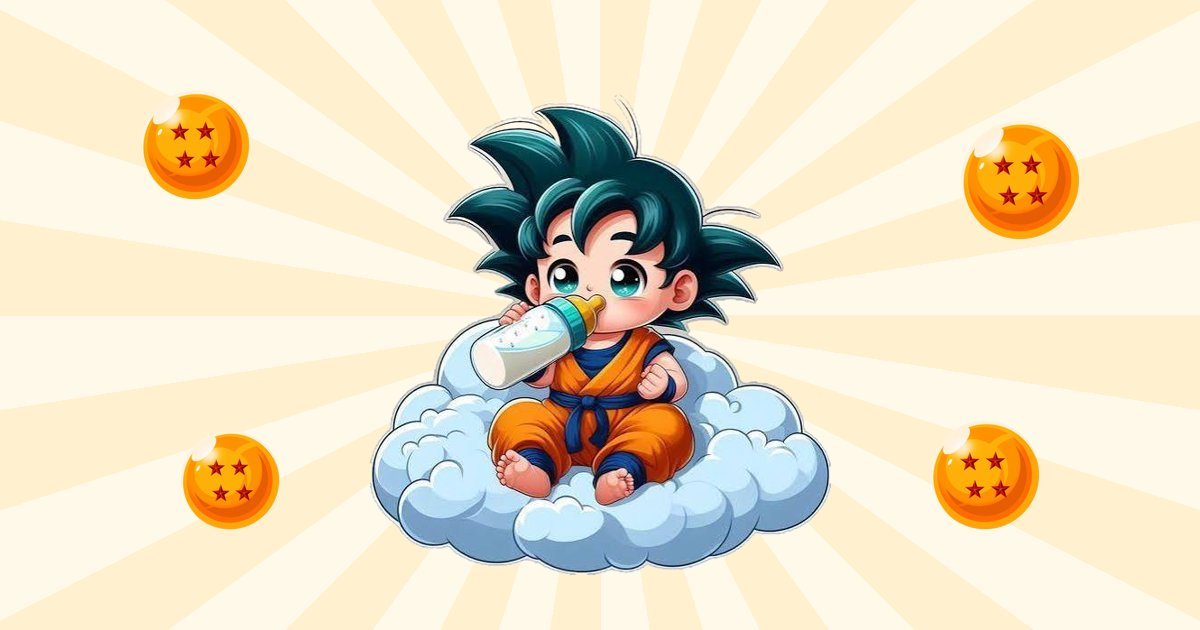
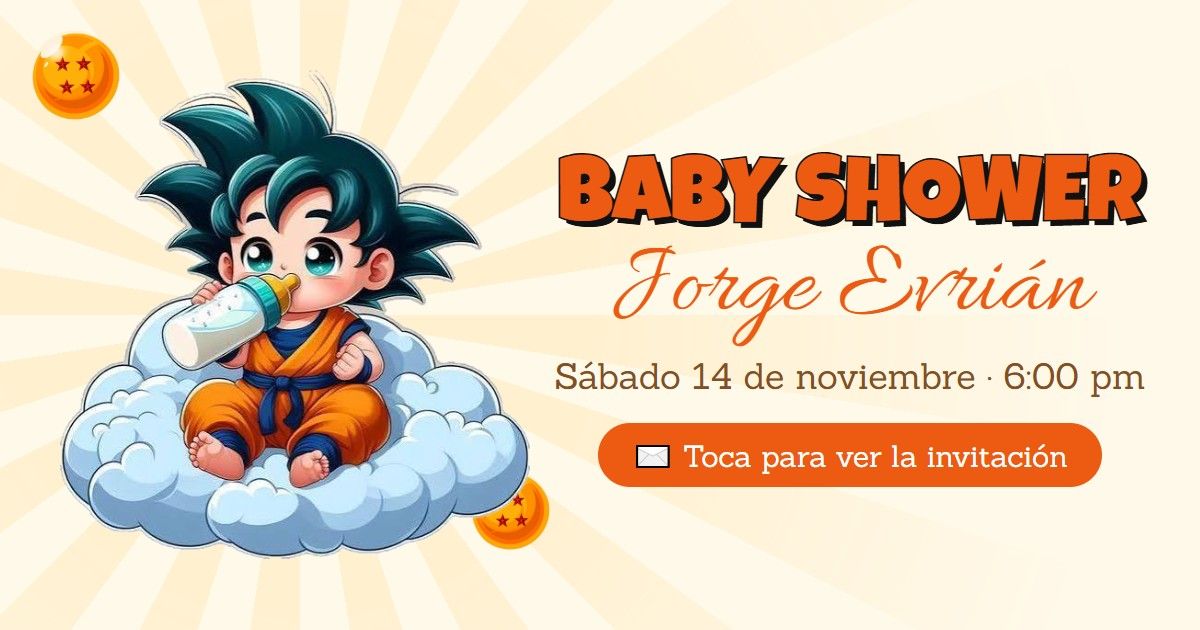
Nueva imagen de vista previa para WhatsApp

diff --git a/index.html b/index.html
@@ -8,8 +8,11 @@
 <meta name="theme-color" content="#fff9ea">
 <meta property="og:type" content="website">
 <meta property="og:title" content="Baby Shower de Jorge Evrián 🍼">
-<meta property="og:description" content="Sábado 14 de noviembre · 6:00 pm · Eventos Vivi. ¡Te esperamos!">
-<meta property="og:image" content="https://jonathan-win.github.io/img/compartir.jpg">
+<meta property="og:description" content="Sábado 14 de noviembre · 6:00 pm · Eventos Vivi, Santa Anita. Toca para abrir la invitación y confirmar tu asistencia 💙">
+<meta property="og:image" content="https://jonathan-win.github.io/img/compartir.jpg?v=2">
+<meta property="og:image:width" content="1200">
+<meta property="og:image:height" content="630">
+<meta property="og:image:alt" content="Baby Shower de Jorge Evrián, sábado 14 de noviembre a las 6:00 pm">
 <meta property="og:url" content="https://jonathan-win.github.io/">
 <link rel="icon" href="img/esfera.png">
 <link rel="preconnect" href="https://fonts.googleapis.com">
